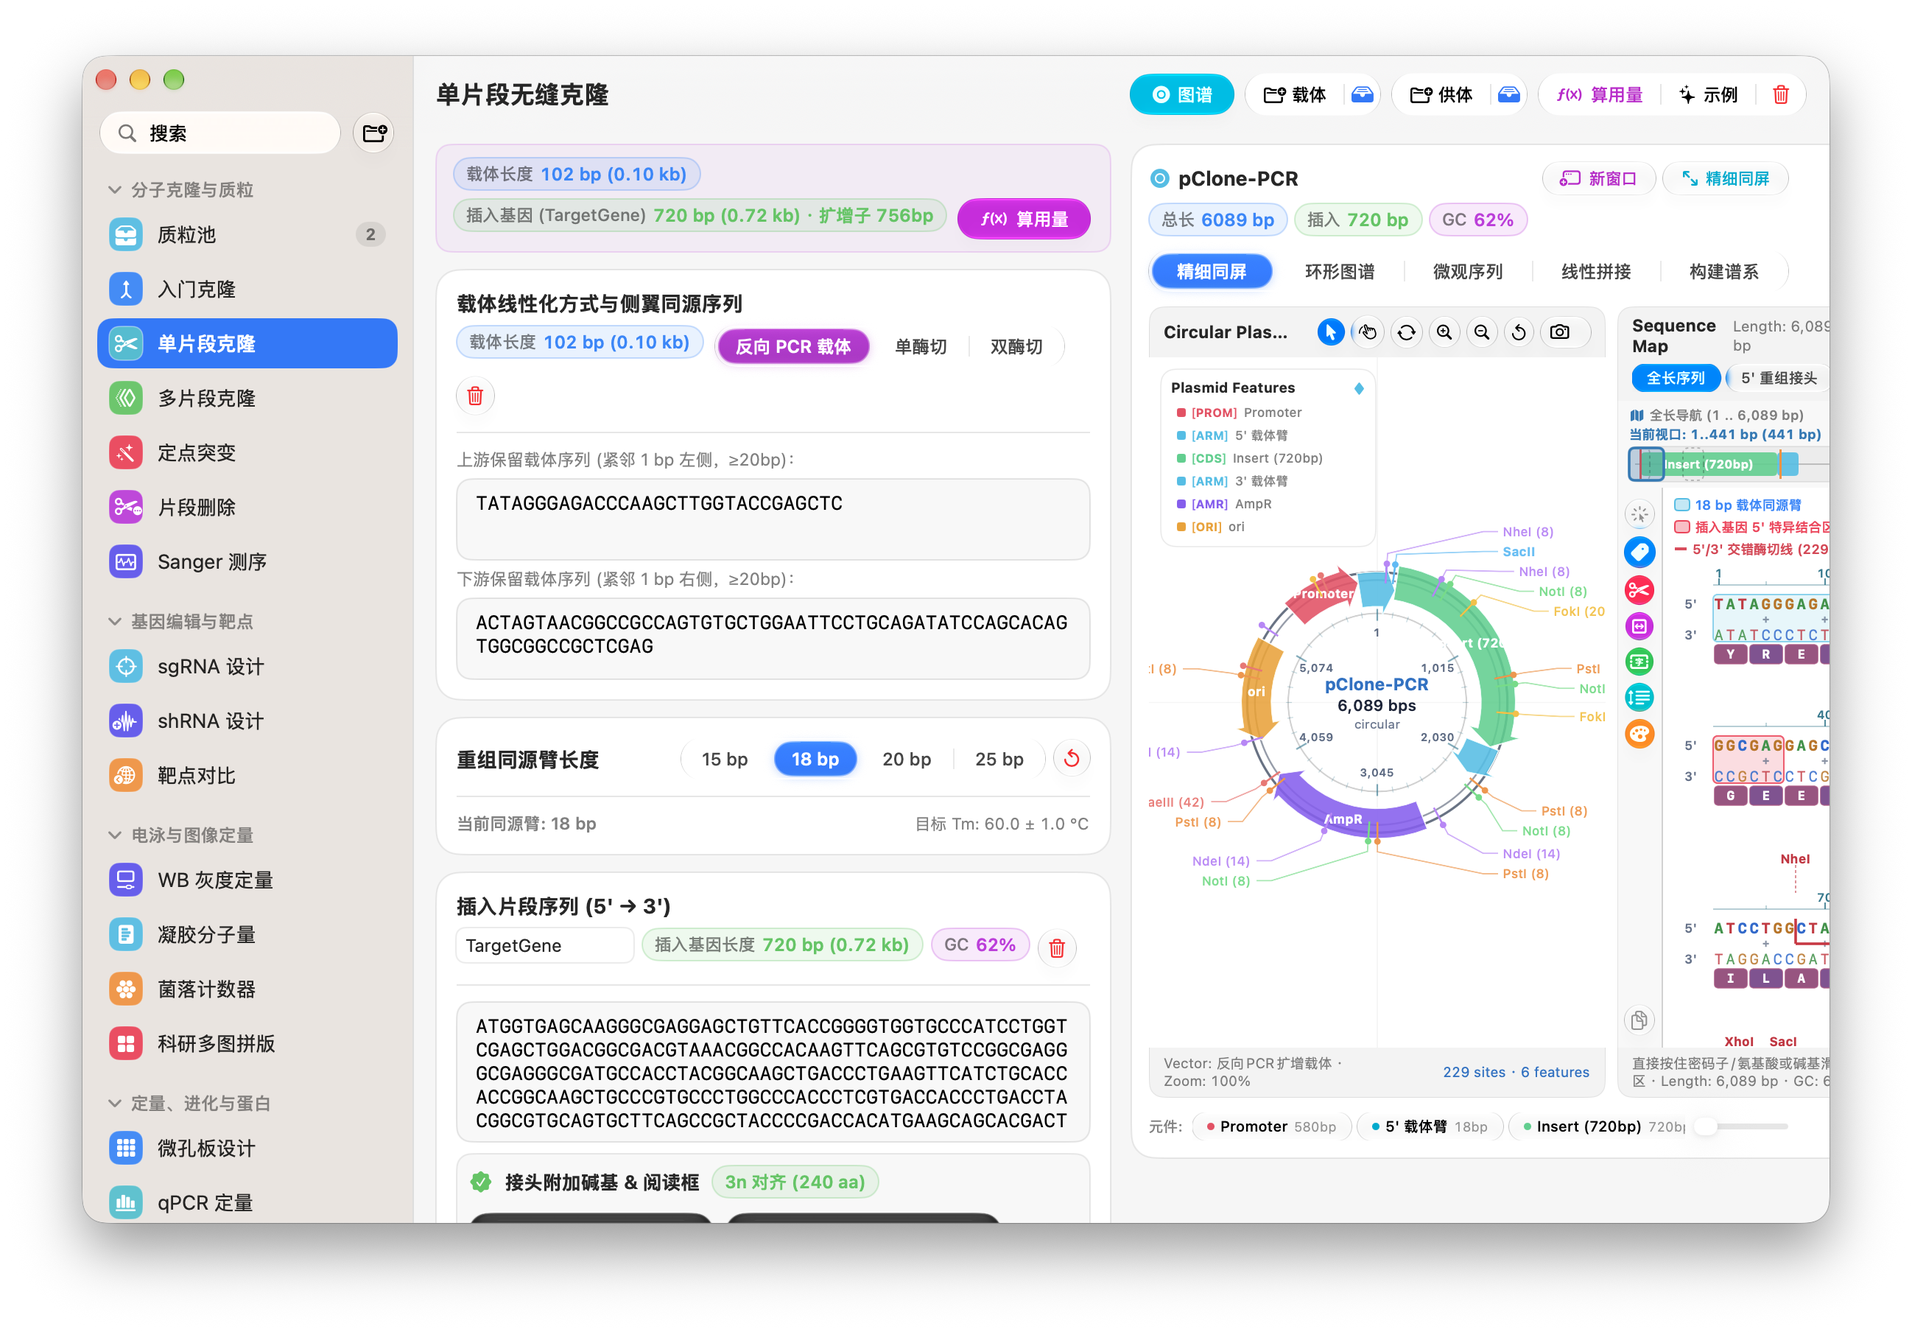
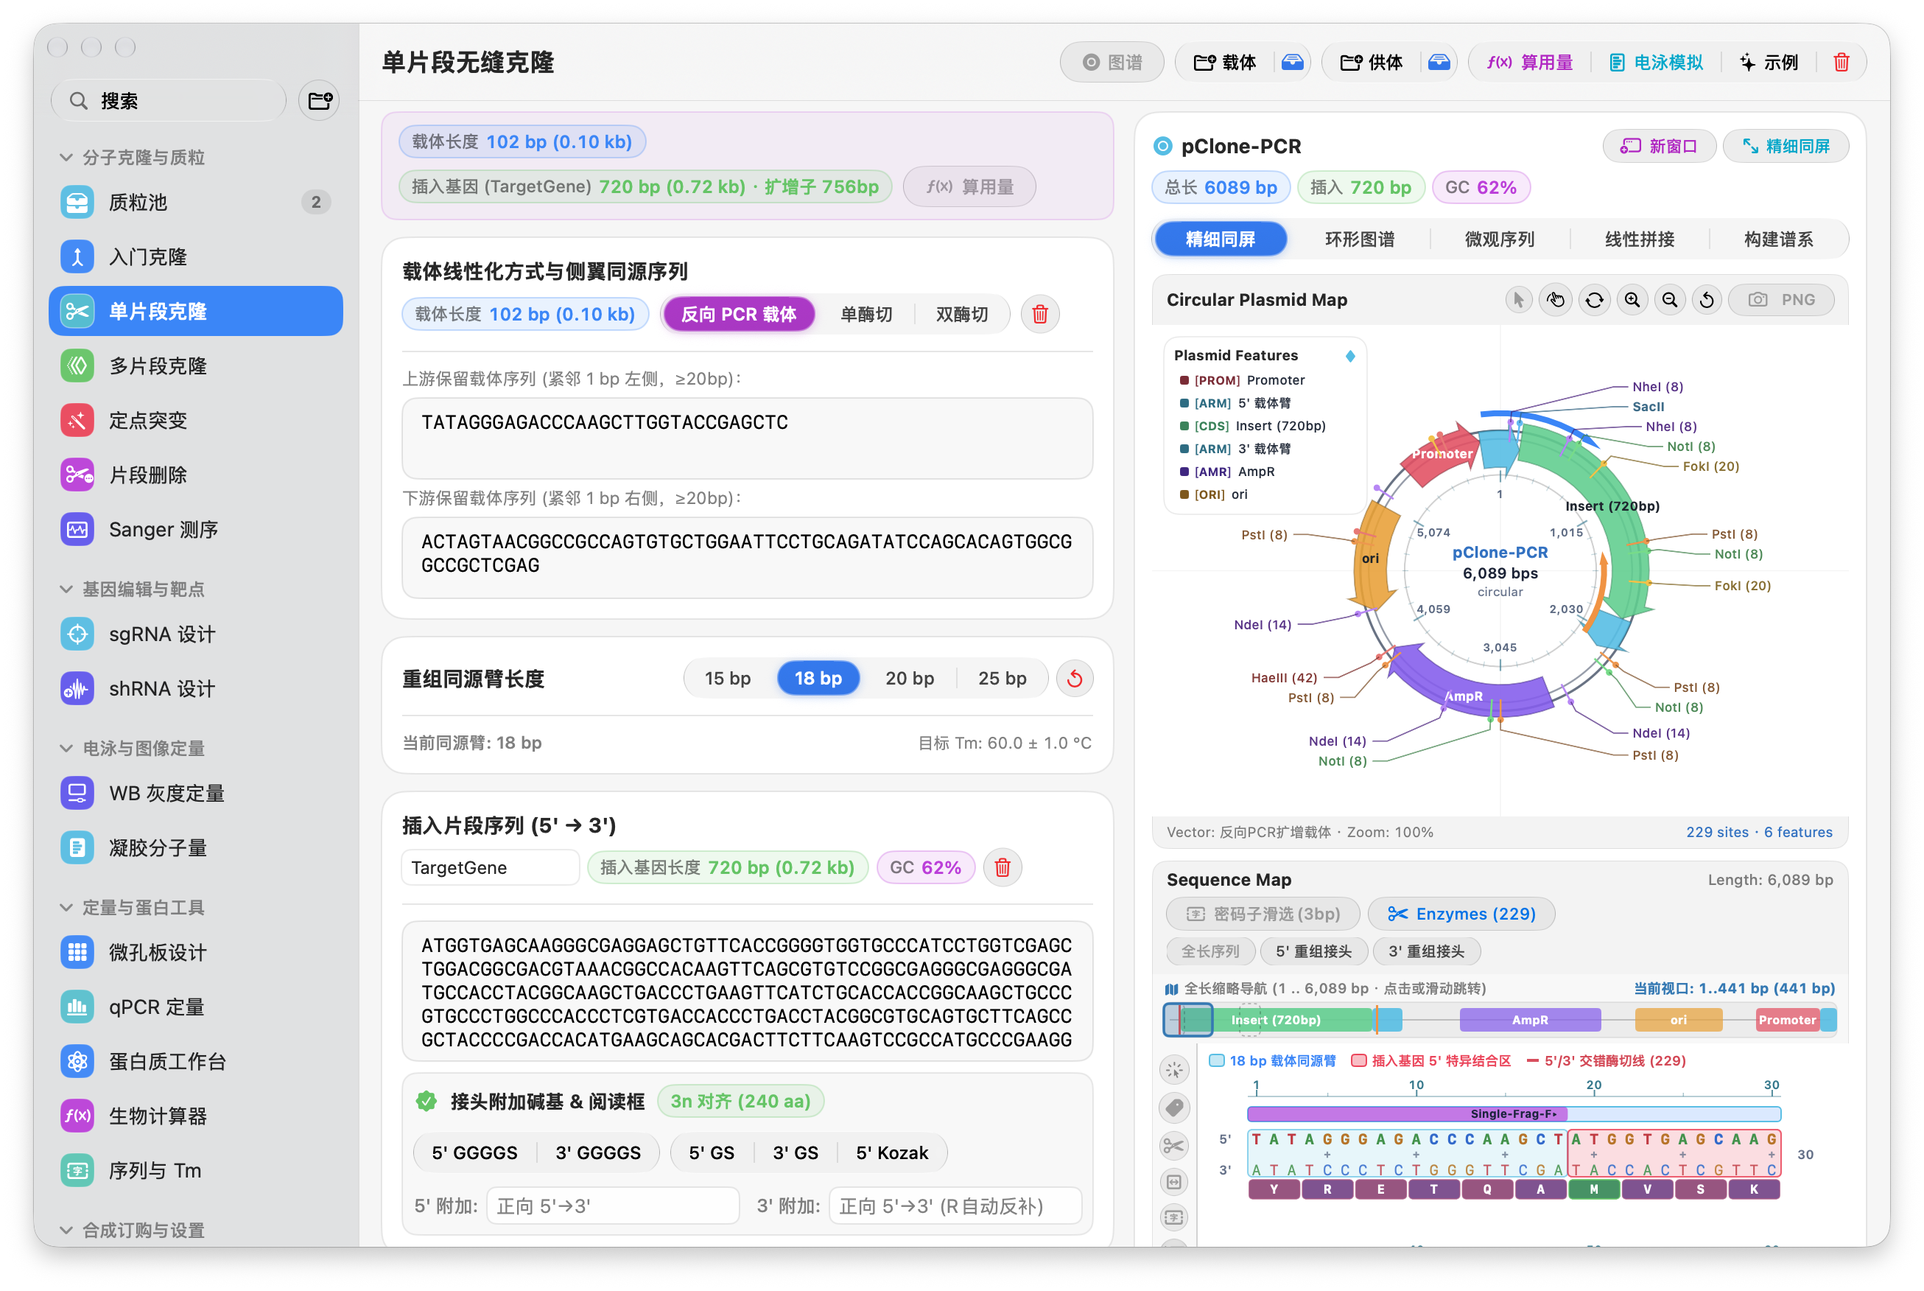
docs(readme): refresh v20261120 live screenshots, add acknowledgments, and fix WB/gel UI polish

Changed region(s): [[0.0, 0.0, 0.9985, 0.9863]]

diff --git a/labworker/Sources/CloneStudio/Views/BenchTools/GelFigureEditorView.swift b/labworker/Sources/CloneStudio/Views/BenchTools/GelFigureEditorView.swift
@@ -739,17 +739,18 @@ public struct GelFigureEditorView: View {
                         }
                         
                         Canvas { context, _ in
-                            let staggerHeaders = lanes.count > 6
+                            let staggerHeaders = lanes.count > 5
                             for (laneOffset, lane) in lanes.enumerated() {
                                 let lx = CGFloat(lane.centerX) * drawW
                                 let bw = CGFloat(lane.widthFrac) * drawW
                                 
                                 if lane.isVirtualDigestLane {
+                                    let topPad: CGFloat = staggerHeaders ? 34 : 26
                                     let laneRect = CGRect(
                                         x: lx - bw * 0.52,
-                                        y: 28,
+                                        y: topPad,
                                         width: bw * 1.04,
-                                        height: max(40, drawH - 36)
+                                        height: max(40, drawH - topPad - 8)
                                     )
                                     context.fill(
                                         Path(roundedRect: laneRect, cornerRadius: 4),
@@ -757,9 +758,10 @@ public struct GelFigureEditorView: View {
                                     )
                                 }
                                 
-                                // 泳道顶部名称标签（泳道较多时自动错行，避免文字重叠）
-                                let headerY: CGFloat = staggerHeaders ? (laneOffset.isMultiple(of: 2) ? 12 : 24) : 14
-                                let headerText = Text(lane.name)
+                                // 泳道顶部名称标签（泳道较多时自动错行并截断，避免文字重叠）
+                                let headerY: CGFloat = staggerHeaders ? (laneOffset.isMultiple(of: 2) ? 11 : 23) : 14
+                                let displayName = Self.shortName(lane.name, maxLength: lanes.count > 5 ? 12 : 16)
+                                let headerText = Text(displayName)
                                     .font(.system(size: staggerHeaders ? 9 : 10, weight: .bold))
                                     .foregroundColor(lane.isVirtualDigestLane ? .cyan : .white)
                                 context.draw(headerText, at: CGPoint(x: lx, y: headerY))

diff --git a/labworker/Sources/CloneStudio/Views/BenchTools/WesternBlotView.swift b/labworker/Sources/CloneStudio/Views/BenchTools/WesternBlotView.swift
@@ -1367,6 +1367,7 @@ public struct WesternBlotView: View {
             return
         }
         guard let group = selectedGroup else { return }
+        let targetGroupID = group.id
         let quantPath = group.primaryQuantPath
         let cfg = params
         let useNative = preferNativeEngine
@@ -1377,6 +1378,7 @@ public struct WesternBlotView: View {
                 preferNative: useNative
             )
             await MainActor.run {
+                guard self.selectedGroupID == targetGroupID else { return }
                 if let res {
                     self.currentResult = res
                     if self.selectedLaneIndex >= res.lanes.count {

diff --git a/README.md b/README.md
@@ -13,7 +13,7 @@
 [![MCP](https://img.shields.io/badge/MCP%20Tools-23%20Ready-30D158?style=for-the-badge)](#-ai-智能体协同)
 [![License](https://img.shields.io/badge/License-MIT-8E8E93?style=for-the-badge)](LICENSE)
 
-[⬇ 下载最新版 DMG (`v20261120`)](https://github.com/xin67/Labworker/releases/tag/v20261120) &nbsp;·&nbsp; [🆕 v20261120 最新进展](#-v20261120-最新进展) &nbsp;·&nbsp; [📸 实机界面画廊](#-实机界面与核心能力展示) &nbsp;·&nbsp; [🧩 18 个功能模块](#-18-个全栈功能模块) &nbsp;·&nbsp; [🤖 MCP 智能体接入](#-ai-智能体协同) &nbsp;·&nbsp; [🔧 源码构建](#-安装与源码构建)
+[⬇ 下载最新版 DMG (`v20261120`)](https://github.com/xin67/Labworker/releases/tag/v20261120) &nbsp;·&nbsp; [🆕 v20261120 最新进展](#-v20261120-最新进展) &nbsp;·&nbsp; [📸 实机界面画廊](#-实机界面与核心能力展示) &nbsp;·&nbsp; [🧩 18 个功能模块](#-18-个全栈功能模块) &nbsp;·&nbsp; [🤖 MCP 智能体接入](#-ai-智能体协同) &nbsp;·&nbsp; [🔧 源码构建](#-安装与源码构建) &nbsp;·&nbsp; [🙏 致谢](#-致谢与参考项目)
 
 <br/>
 
@@ -36,17 +36,16 @@
 
 ## 🆕 v20261120 最新进展
 
-- **🧬 分子克隆与高阶基因编辑引擎**：新增 **Golden Gate 组装**（Type IIS 酶 `BsaI / BsmBI / BbsI / SapI` 2–6 片段零错配接头分配与同义 Domestication）、**诊断性酶切模拟**、基于 `Libraries.sqlite` 的**离线质粒自动注释**、**HDR 同源修复供体设计**（ssODN/dsDNA、PAM/Seed 同义阻断突变与 Out-Out PCR 引物）以及全克隆模块通用的**同源重组 PCR 虚拟电泳预测**。
-- **🔬 CRISPR Sanger 峰图反卷积**：在 Sanger 测序模块集成 **NNLS 非负最小二乘峰图解卷积**，直接从混池 `.ab1` 峰图定量 `Indel%`、`KO Score`、`HDR%` 与拟合优度 $R^2$。
-- **🌐 靶点设计内嵌多源在线共识**：将在线比对直接嵌入 `sgRNA 设计` 与 `shRNA 设计` 视图——sgRNA 支持 **VBC-Score + UCSC CRISPOR + CHOPCHOP** 三源共识评分（含 `mm39` 与 501 bp 窗口修复）；shRNA 集成 **Broad GPP Public Portal** 官方 TRC 克隆核验。
-- **🧪 凝胶定量与全能生物计算器**：`凝胶分子量` 升级支持质粒酶切 / 单多片段克隆 / 入门克隆 / 片段删除 / 定点突变 / 自定义条带多模式虚拟电泳对照；新增**全能生物计算器**覆盖重组摩尔比配液、核酸/蛋白互算及 $C_1V_1=C_2V_2$ 溶液配制。
-- **🪟 Liquid Glass 交互与工程精简**：移除冗余菌落计数器与独立靶点对比页签（收口为 **5 大分类 · 18 个全栈模块**），修复电泳画布横向溢出与默认态 HDR 过亮，全局统一居左紧凑主操作栏与条件性图谱按钮；内置 **23 项 MCP 工具** 与 **50 项自动化回归测试**（含 10 组跨语言黄金测试向量）。
+- **🧬 核心引擎与 MCP 23 工具扩展**：在 `CloneStudioCore` 与 `labworker-mcp` 服务端新增 **Golden Gate 组装**（基于 `Libraries.sqlite` 中 NEB T4 4-bp 连接保真度矩阵，支持 `BsaI / BsmBI / BbsI / SapI` 2–6 片段零错配接头分配与同义 Domestication）、**诊断性限制酶切推荐**、**离线质粒自动注释**（双链扫描、跨 Origin 拼接与历史残留片段标记）、**HDR 同源修复供体设计**（ssODN/dsDNA、PAM/Seed 同义阻断突变与 Out-Out PCR 引物）及 **CRISPR 编辑池 Sanger NNLS 峰图反卷积**（`Indel%`、`KO Score`、`HDR%` 与拟合优度 $R^2$）。
+- **🧪 同源重组 PCR 虚拟电泳与凝胶定量升级**：全部克隆/突变/删除工作台内置实时**同源重组 PCR 凝胶电泳模拟**；`凝胶分子量` 升级支持质粒酶切、单/多片段克隆、入门克隆、片段删除、定点突变与自定义条带多模式虚拟预测道叠加，并优化多泳道标题防重叠排布。
+- **🌐 靶点设计内嵌多源在线共识**：移除独立「靶点对比」页签，将在线核验直接嵌入 `sgRNA 设计`（**VBC-Score + UCSC CRISPOR + CHOPCHOP** 三源并发共识评分，修复 `mm39` 与 501 bp 窗口问题）与 `shRNA 设计`（集成 **Broad GPP Public Portal** 官方 TRC 克隆库核验）。
+- **🧮 全能生物计算器与 Liquid Glass 细节打磨**：新增**生物计算器**（重组摩尔比配液、dsDNA/ssDNA/Linear/OD260 核酸定量、蛋白摩尔与编码容量、$C_1V_1=C_2V_2$ 溶液配制与温标转换）；移除冗余菌落计数器，收口为 **5 大分类 · 18 个全栈模块**，修复电泳画布横向溢出、Liquid Glass 默认态 HDR 过亮与 WB 切组竞态，全局统一居左紧凑主操作栏与条件性图谱按钮；全部核心算法经 **50 项自动化测试**与 10 组跨语言黄金测试向量验证。
 
 ---
 
 ## 📸 实机界面与核心能力展示
 
-以下全部截图采集自 **macOS 实机浅色 Liquid Glass 主题** 运行内置公开示范数据的真实界面（摄于 `v20261115`，`v20261120` 在此基础上进一步优化了居左紧凑操作栏、内嵌在线靶点对比与多模块虚拟电泳）：
+以下全部截图采集自 **`Labworker v20261120`（macOS 实机浅色 Liquid Glass 主题）** 运行内置公开示范数据的真实界面：
 
 <table>
   <tr>
@@ -86,6 +85,19 @@
       </ul>
     </td>
     <td width="50%" valign="top">
+      <a href="docs/images/05-gel-virtual-electrophoresis.png">
+        <img src="docs/images/05-gel-virtual-electrophoresis.png" width="100%" alt="凝胶分子量回归与多模块虚拟电泳对照" />
+      </a>
+      <h4>🧫 凝胶分子量拟合与多模块虚拟电泳对照</h4>
+      <ul>
+        <li>自动寻道切分 Marker 条带，基于 $\log_{10}(\text{MW})$ 线性回归标定未知条带片段大小</li>
+        <li>支持叠加质粒酶切、单/多片段克隆、入门克隆、片段删除与定点突变虚拟电泳预测道</li>
+        <li>内置多种 DNA / 蛋白标准 Ladder 预设，实时评估胶浓度适配性与条带分辨率</li>
+      </ul>
+    </td>
+  </tr>
+  <tr>
+    <td width="50%" valign="top">
       <a href="docs/images/06-qpcr-analysis.png">
         <img src="docs/images/06-qpcr-analysis.png" width="100%" alt="qPCR 荧光定量分析与 ΔCt 热图矩阵" />
       </a>
@@ -94,6 +106,17 @@
         <li>支持 <code>2^(-ΔΔCt)</code> 相对定量与标准曲线绝对定量，具备多内参几何平均与扩增效率校正</li>
         <li>自动排查高 Ct / NTC / no-RT / 熔解曲线偏离与复孔 SD &gt; 0.30 离群风险</li>
         <li>输出 <code>ΔCt</code> 热图矩阵与基于生物学重复级别的 Welch's <i>t</i>-test + Holm–Bonferroni 多组校正</li>
+      </ul>
+    </td>
+    <td width="50%" valign="top">
+      <a href="docs/images/07-sgrna-consensus.png">
+        <img src="docs/images/07-sgrna-consensus.png" width="100%" alt="CRISPR sgRNA 设计与多源在线共识比对" />
+      </a>
+      <h4>🎯 CRISPR sgRNA 设计与多源在线共识核验</h4>
+      <ul>
+        <li>支持本地 <code>Libraries.sqlite</code>（<code>hg38 / mm39</code>）高速离线检索与热力学评分</li>
+        <li>内嵌 <strong>VBC-Score + UCSC CRISPOR + CHOPCHOP</strong> 三源并发在线对比与 20bp 共识加分</li>
+        <li>一键生成 <code>lentiCRISPRv2</code> (BsmBI) / <code>pX459</code> (BbsI) 退火引物并实时联动重组质粒图谱</li>
       </ul>
     </td>
   </tr>
@@ -148,8 +171,8 @@ flowchart LR
 | **分子克隆与质粒 (7)** | `质粒池` / `入门克隆` / `单片段克隆` / `多片段克隆` / `定点突变` / `片段删除` / `Sanger 测序` | `.dna` (SnapGene)、`.gb`、`.fasta`、`.ab1` 解析与导出；支持矢量环形图谱、双链碱基视图、同源重组 PCR 凝胶电泳模拟、3n 移码校验与批量测序看板 |
 | **基因编辑与靶点 (2)** | `sgRNA 设计` / `shRNA 设计` | 基于 `Libraries.sqlite`（hg38/mm39）与内嵌在线对比（sgRNA 集成 **VBC-Score + UCSC CRISPOR + CHOPCHOP** 三源共识；shRNA 集成 **Broad GPP Public Portal** 官方 TRC 克隆核验），自动生成带粘性末端的配对引物 |
 | **电泳与图像定量 (2)** | `WB 灰度定量` / `凝胶分子量` | 原生 16-bit TIFF 滚球扣背景与显著性柱状图、Ladder $\log_{10}(\text{MW})$ 回归与多模块（质粒酶切/单多片段克隆/入门克隆/片段删除/定点突变/自定义条带）虚拟电泳对照 |
-| **定量与蛋白工具 (3)** | `微孔板设计` / `qPCR 定量` / `蛋白工作台` | 96/384 孔防边缘效应排布、$2^{-\Delta\Delta C_t}$ 与标准曲线定量、三维 Cα + LIGSITE 口袋 + Vina 盒 + 点突变 $\Delta\Delta G$ |
-| **工具、订购与系统 (4)** | `生物计算器` / `序列工具箱` / `引物测序订购` / `全局设置` | 克隆与经典 0.03 pmol 摩尔比配液、dsDNA/ssDNA/Linear/OD260 核酸定量、蛋白摩尔与编码容量、溶液配制/稀释 ($C_1V_1=C_2V_2$)/温标转换；SantaLucia 速算、Excel 订购单与主题管理 |
+| **定量与蛋白工具 (5)** | `微孔板设计` / `qPCR 定量` / `蛋白工作台` / `生物计算器` / `序列与 Tm` | 96/384 孔防边缘效应排布、$2^{-\Delta\Delta C_t}$ 与标准曲线定量、三维 Cα + LIGSITE 口袋 + Vina 盒 + 点突变 $\Delta\Delta G$；重组 0.03 pmol 摩尔比配液、dsDNA/ssDNA/Linear/OD260 定量、蛋白摩尔/编码容量与 $C_1V_1=C_2V_2$ 溶液换算；SantaLucia 速算 |
+| **合成订购与设置 (2)** | `订购中心` / `系统设置` | 擎科 / 生工标准引物与测序 Excel 订购单导出、批量写回 `.dna` 质粒、MCP 服务一键注入与 Liquid Glass 主题/侧边栏定制 |
 
 ---
 
@@ -211,6 +234,29 @@ bash Scripts/package_dmg.sh
 ```
 
 > **提示**：仓库已配置 `.gitignore`，所有本地 `.dna` / `.ab1` 序列及私有质粒库记录（`.clonestudio_plasmid_pool.json`）均仅留存于用户本地，不会随代码提交上传。
+
+---
+
+## 🙏 致谢与参考项目
+
+Labworker 在研发与算法对齐过程中学习、参考并集成了以下优秀的开源项目、科学文献与公开生信基础设施，在此向原作者及社区致以诚挚感谢：
+
+### 开源项目与架构参考
+- **[TeselaGen / OpenVectorEditor (`tg-oss`)](https://github.com/TeselaGen/tg-oss/tree/main/packages/ove)**（[原独立仓库](https://github.com/TeselaGen/openVectorEditor)）：启发了 Labworker 同心多轨环形质粒图谱（OVE）与双链碱基/氨基酸微观序列画布的极角防碰撞几何布局。
+- **[IBN-Spring / DockFlowLab](https://github.com/IBN-Spring/DockFlowLab)**：蛋白质工作台的多模型构象解析规范、LIGSITE 七方向 P-S-P 结合口袋探测、共晶配体共识 AutoDock Vina 对接盒推荐与单文件自包含离线 HTML 报告均深度参考并对齐该项目的工程实现。
+- **[libnano / primer3-py](https://github.com/libnano/primer3-py)**：引物二级结构热力学评价引擎（发夹结构 `calc_hairpin`、自二聚体 `calc_homodimer`、异二聚体 `calc_dimer` 与盐离子校正模型）的 $\Delta G$ 与配对拓扑均严格对齐 `primer3-py` 并通过跨语言黄金测试向量验证。
+- **[mmcguffi / pLannotate](https://github.com/mmcguffi/pLannotate)**：本地离线未知质粒 FASTA 自动注释引擎（正反双链特征匹配、环形质粒跨零点 Origin 识别与历史残留 Fragment 贪心筛选）参考了 pLannotate 的注释过滤思路。
+- **[synthego-open / ice](https://github.com/synthego-open/ice)**：CRISPR 编辑池 Sanger 四色峰图解卷积模块（`deconvolute_crispr_sanger`）参考了 Synthego ICE 的非负最小二乘（NNLS）混杂峰建模思想。
+- **[Edinburgh-Genome-Foundry / SnapGeneReader](https://github.com/Edinburgh-Genome-Foundry/SnapGeneReader)**：SnapGene `.dna` 二进制 TLV 区块解析格式参考了社区对 `.dna` 结构的逆向解析规范。
+
+### 学术算法与在线靶点数据库
+- **DNA 最近邻热力学模型**：遵循 **SantaLucia & Hicks (2004)** 与 **Bommarito et al. (2000)** 统一最近邻参数及 5'/3' 悬垂端（Dangling Ends）自由能模型。
+- **NEB T4 DNA Ligase 4-bp 保真度模型**：Golden Gate 高保真接头分配矩阵参考 **Potapov et al. (2018)** 与 **Pryor et al. (2020)** 的 T4 连接酶错配连接定量研究。
+- **在线 CRISPR / RNAi 靶点服务**：
+  - **[CHOPCHOP](https://chopchop.cbu.uib.no/)**（[JokingHero/chopchop](https://github.com/JokingHero/chopchop) · Labun et al., *Nucleic Acids Res* 2019）
+  - **[VBC-Score](https://www.vbc-score.org/)**（[GMichlits/VBC-Score](https://github.com/GMichlits/VBC-Score) · Michlits et al., *Nature Methods* 2020）
+  - **[UCSC CRISPOR](https://crispor.gi.ucsc.edu/)**（[maximilianh/crisporWebsite](https://github.com/maximilianh/crisporWebsite) · Concordet & Haeussler, *Nucleic Acids Res* 2018）
+  - **[Broad Institute GPP Public Portal (TRC)](https://portals.broadinstitute.org/gpp/public)**：shRNA 官方 TRC 克隆库与 Adjusted / Intrinsic 效价评分检索。
 
 ---
 

diff --git a/labworker/ARCHITECTURE.md b/labworker/ARCHITECTURE.md
@@ -11,8 +11,8 @@
 
 | 文件路径 | 核心用途说明 |
 | :--- | :--- |
-| `../README.md` | GitHub 项目主页图文展示文档：含应用图标、5 张内置公开示例实机界面截图、Mermaid 架构工作流、18 模块速览、MCP 配置与 `v20261120` DMG 下载及源码构建说明 |
-| `../docs/images/*.png` | GitHub 根目录 `README.md` 引用的实机高分界面截图集（`01-single-clone-map.png` 至 `06-qpcr-analysis.png`，仅使用公开示例数据，零隐私脱敏留档） |
+| `../README.md` | GitHub 项目主页图文展示文档：含应用图标、7 张内置公开示例实机界面截图、Mermaid 架构工作流、18 模块速览、MCP 配置、参考项目致谢与 `v20261120` DMG 下载及源码构建说明 |
+| `../docs/images/*.png` | GitHub 根目录 `README.md` 引用的实机高分界面截图集（`01-single-clone-map.png` 至 `07-sgrna-consensus.png`，仅使用公开示例数据，零隐私脱敏留档） |
 | `../.github/workflows/ci.yml` | GitHub Actions `macos-14` 自动化 CI 门禁：在每次 `push`/`pull_request` 执行 Python 跨语言测试向量、防篡改校验及 `check_doc_counts.sh` 全量回归 |
 | `labworker/README.md` | 面向其他 AI 智能体（Claude / Cursor / Windsurf / Gemini / Codex）与开发者的项目全景功能说明书、18 模块算法速查、UI 响应式规范与 MCP 20261120 协议指南 |
 | `labworker/HANDOVER.md` | AI 项目架构交接与维护规范手册：包含目录拓扑、Single Source of Truth 门禁契约、双端 (Swift + Python MCP) 同步机制、跨语言测试向量与编码红线 |
